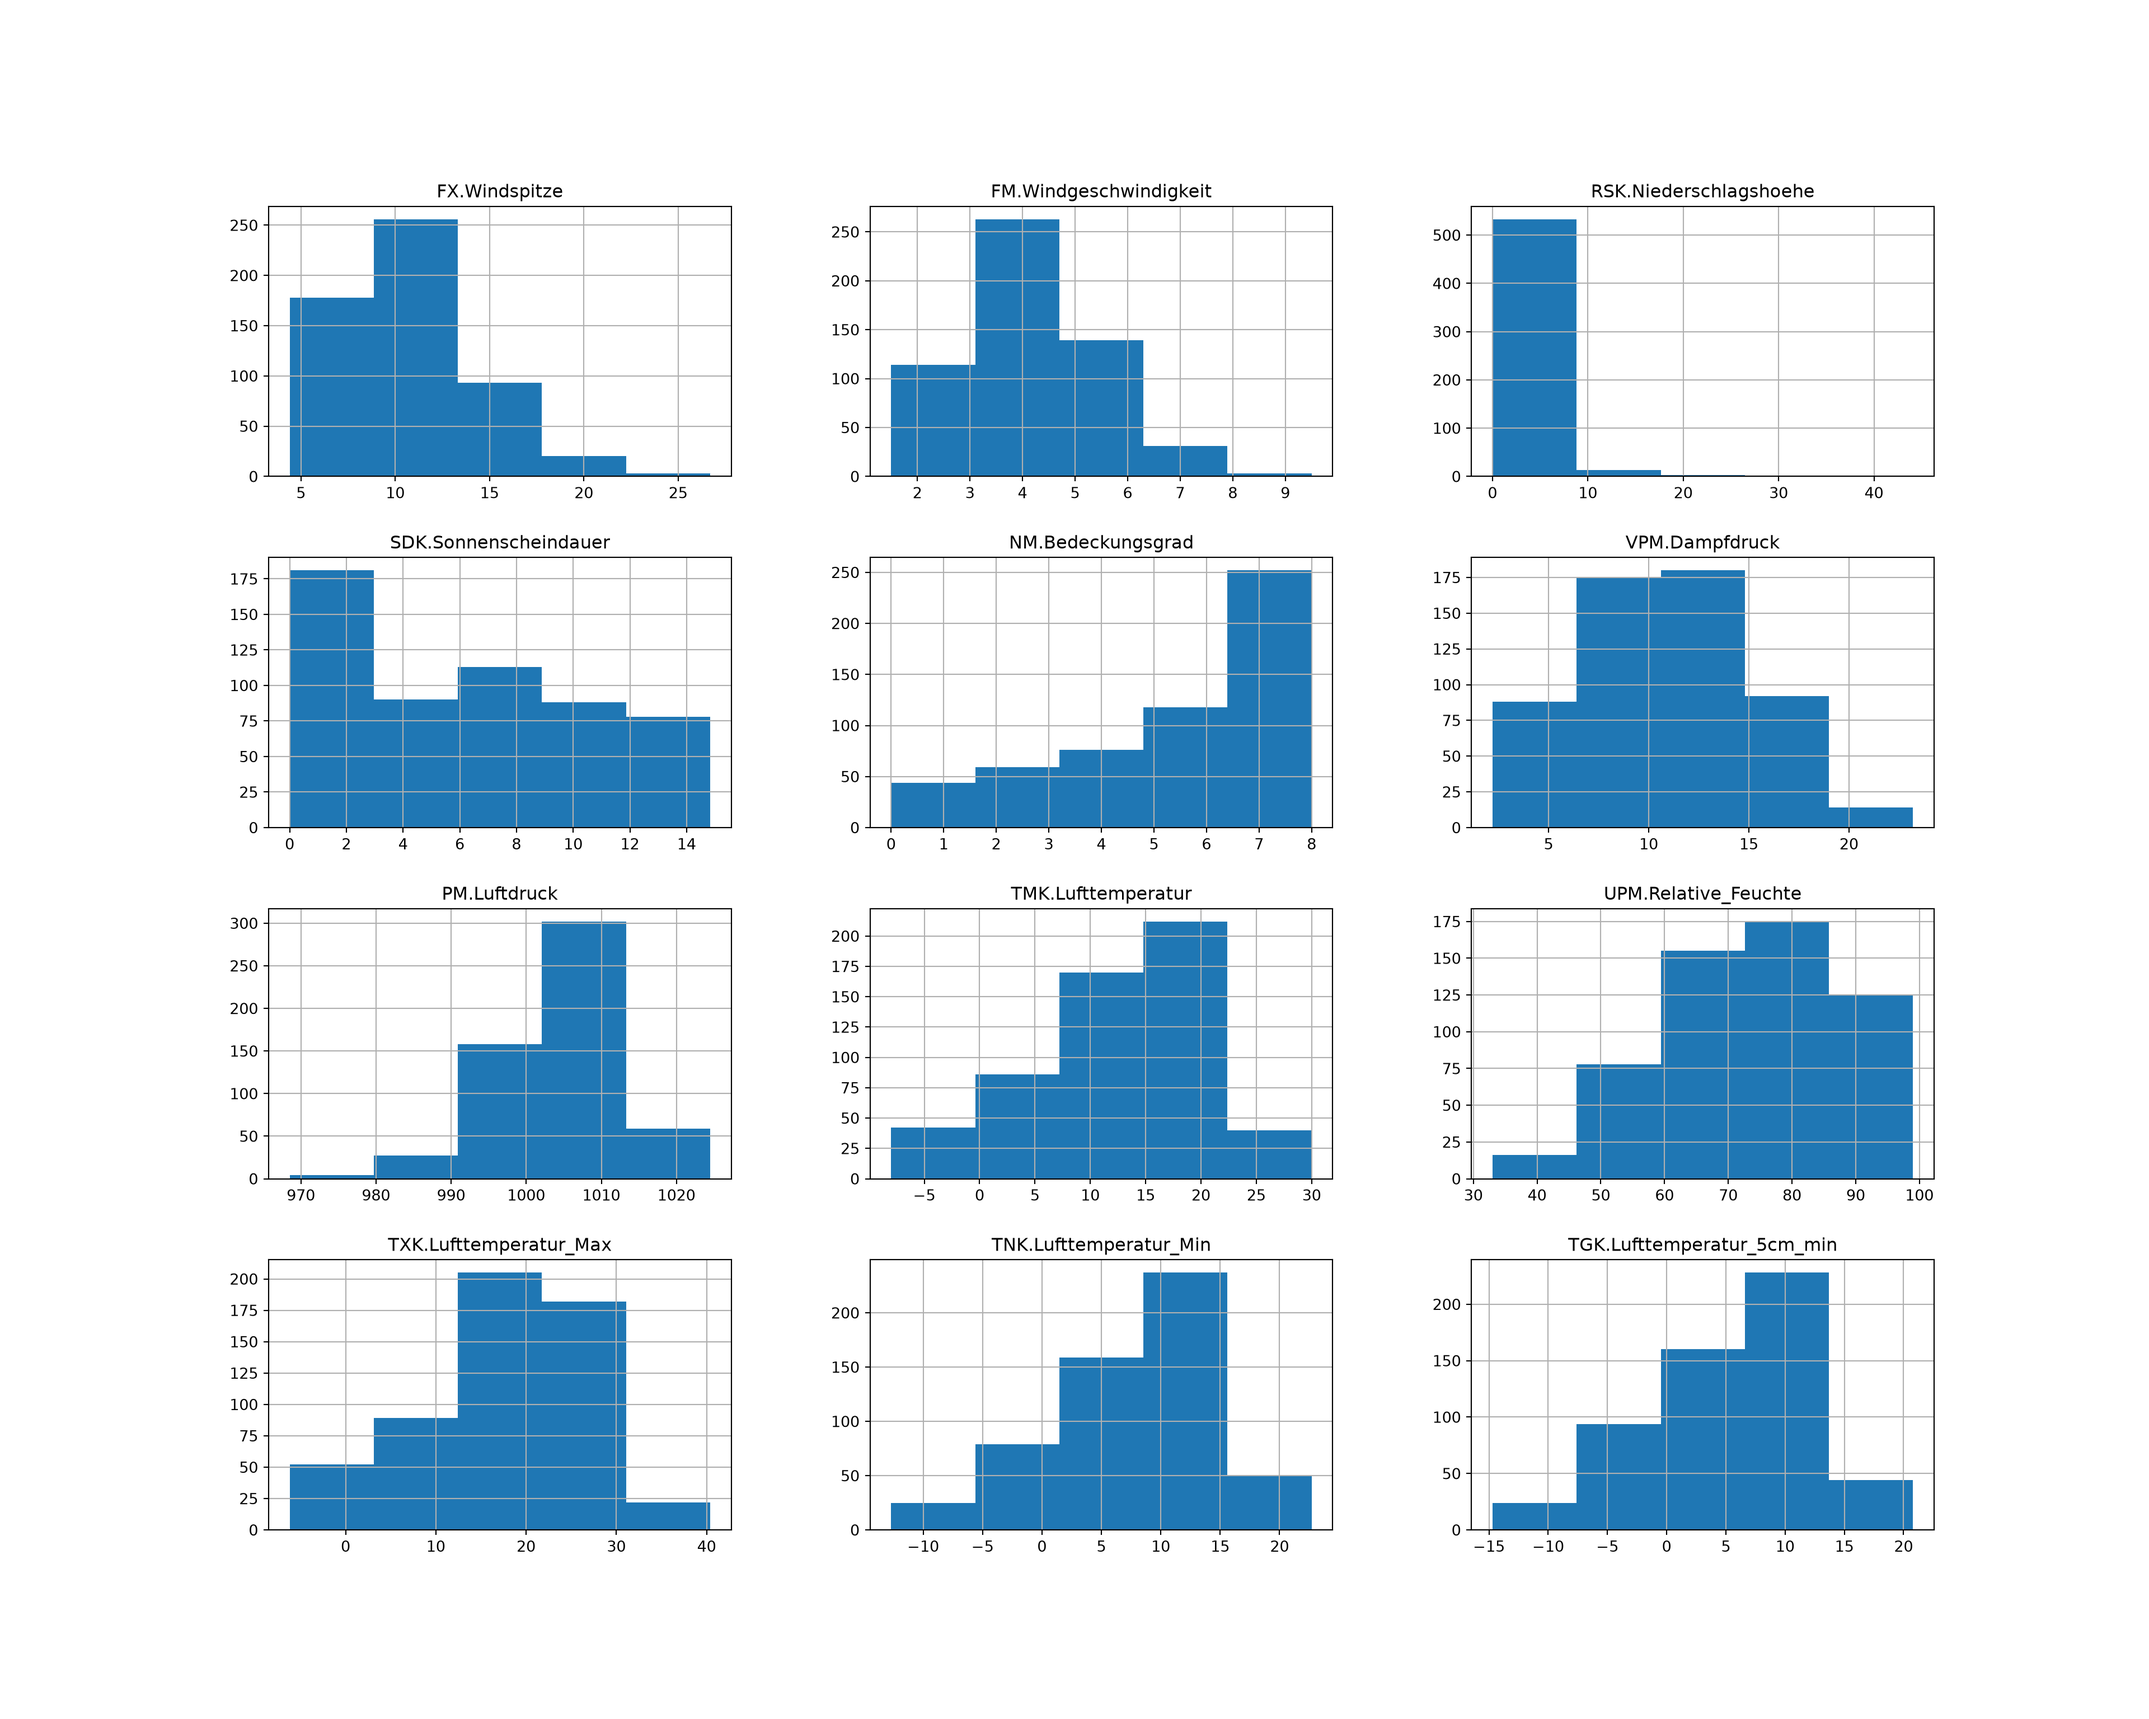
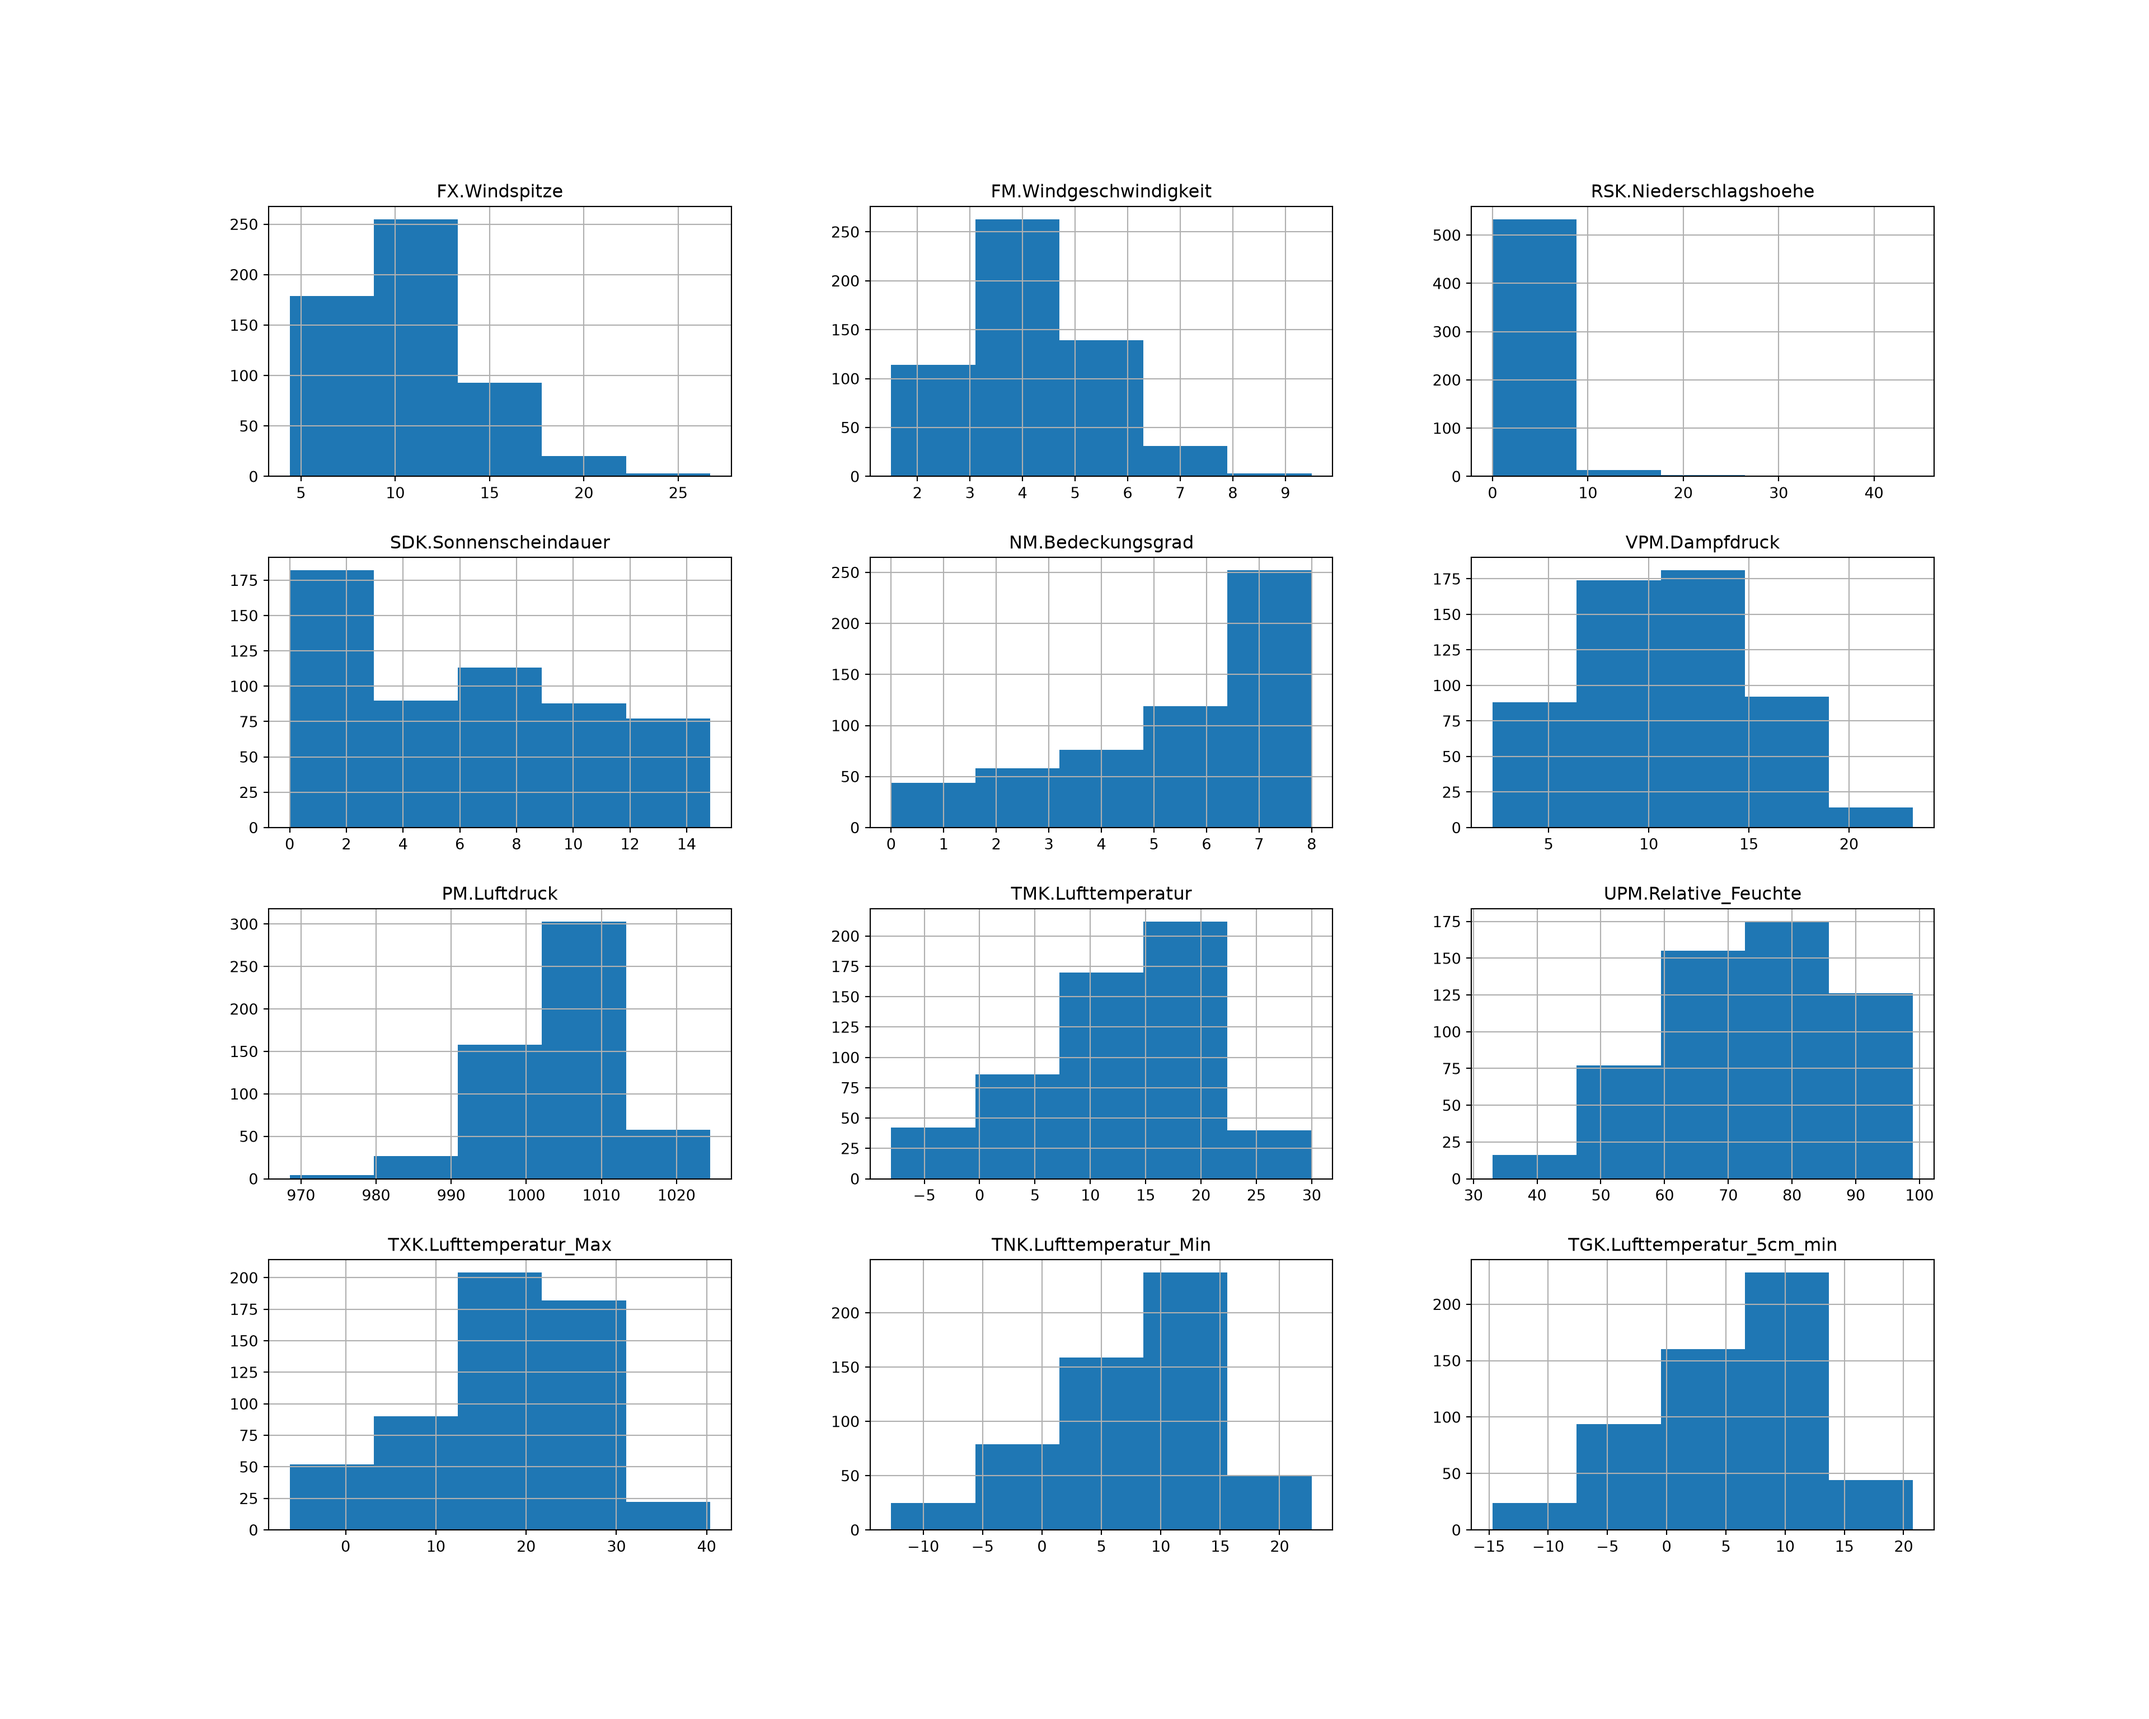
Added margin note with data source (column-margin)

Changed region(s): [[0.25, 0.75, 0.2812, 0.7812]]

diff --git a/index.html b/index.html
@@ -97,7 +97,7 @@ pre > code.sourceCode > span > a:first-child::before { text-decoration: underlin
   </ul>
 </nav>
 </div>
-<main class="content" id="quarto-document-content">
+<main class="content page-columns page-full" id="quarto-document-content">
 
 <header id="title-block-header" class="quarto-title-block default">
 <div class="quarto-title">
@@ -118,7 +118,7 @@ pre > code.sourceCode > span > a:first-child::before { text-decoration: underlin
     <div>
     <div class="quarto-title-meta-heading">Published</div>
     <div class="quarto-title-meta-contents">
-      <p class="date">2026-10-29 17:47</p>
+      <p class="date">2026-10-29 18:26</p>
     </div>
   </div>
   
@@ -165,7 +165,7 @@ To learn more markdown, create a copy of the file (<a href="https://github.com/b
 <li><label><input type="checkbox">add an image (e.g.&nbsp;a screenshot or the DWD logo) with alt text</label></li>
 <li><label><input type="checkbox">set global execution options in the yaml (e.g.&nbsp;<code>warning: false</code>) instead of per-chunk</label></li>
 <li><label><input type="checkbox" checked="">add <code>fig-width</code> / <code>fig-height</code> as global defaults in the yaml</label></li>
-<li><label><input type="checkbox">add margin content with <code>column: margin</code> on a chunk or text block</label></li>
+<li><label><input type="checkbox" checked="">add margin content with <code>column: margin</code> on a chunk or text block</label></li>
 </ul>
 <div class="callout callout-style-default callout-tip callout-titled">
 <div class="callout-header d-flex align-content-center collapsed" data-bs-toggle="collapse" data-bs-target=".callout-1-contents" aria-controls="callout-1" aria-expanded="false" aria-label="Toggle callout">
@@ -211,7 +211,7 @@ To learn more markdown, create a copy of the file (<a href="https://github.com/b
 <span id="cb2-3"><a href="#cb2-3" aria-hidden="true" tabindex="-1"></a>rdwd<span class="sc">::</span><span class="fu">updateRdwd</span>(<span class="at">vignette=</span><span class="cn">FALSE</span>)</span></code></pre></div><button title="Copy to Clipboard" class="code-copy-button"><i class="bi"></i></button></div>
 </div>
 </section>
-<section id="get-weather-data" class="level2">
+<section id="get-weather-data" class="level2 page-columns page-full">
 <h2 class="anchored" data-anchor-id="get-weather-data">Get weather data</h2>
 <p>download recent weather data using <a href="https://brry.github.io/rdwd/">rdwd</a><a href="#fn1" class="footnote-ref" id="fnref1" role="doc-noteref"><sup>1</sup></a></p>
 <div class="cell">
@@ -221,7 +221,10 @@ To learn more markdown, create a copy of the file (<a href="https://github.com/b
 </div>
 <p>The dataset covers 550 days with a mean daily temperature of 12 °C.</p>
 <p>Potsdam weather is <del>boring</del> <strong>surprisingly interesting</strong> once you <em>plot</em> it, thanks to open data from the <a href="https://www.dwd.de">DWD</a>.</p>
-</section>
+
+<div class="no-row-height column-margin column-container"><div class="">
+<p>Data source: DWD Climate Data Center.</p>
+</div></div></section>
 <section id="visualise-recent-temperature" class="level2">
 <h2 class="anchored" data-anchor-id="visualise-recent-temperature">Visualise recent temperature</h2>
 <div class="cell">
@@ -270,8 +273,8 @@ To learn more markdown, create a copy of the file (<a href="https://github.com/b
 </details>
 <div class="cell-output cell-output-stdout">
 <pre><code>count    550.000000
-mean      12.367273
-std        7.712211
+mean      12.365273
+std        7.712865
 min       -8.000000
 25%        7.500000
 50%       13.700000
